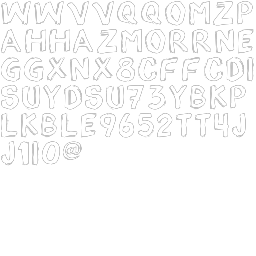
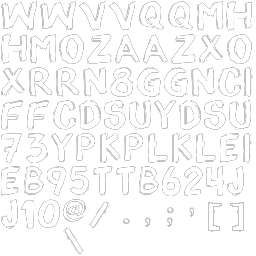
Deceptive keyboard layout switching

diff --git a/dgreed/apps/keymingler/game.c b/dgreed/apps/keymingler/game.c
@@ -1,9 +1,10 @@
 #include "game.h"
 #include "common.h"
+#include "sounds.h"
+#include "layouts.h"
 #include <system.h>
 #include <utils.h>
 #include <font.h>
-#include "sounds.h"
 
 // Types
 typedef struct {
@@ -13,6 +14,7 @@ typedef struct {
 	int fire_frame;
 	bool sinking;
 	float sink_t;
+	float hint_t;
 } Barrel;	
 
 // Resources
@@ -27,21 +29,33 @@ RectF srcrect_water = {0, 3, 1024, 539};
 FontHandle font;
 
 // Tweakables
-float barrel_fall_speed = 100.0f;
-float barrel_drop_interval = 2.0f;
-float barrel_drop_variance = 1.5f;
-float barrel_fire_anim_speed = 0.04f;
-float barrel_fire_length = 0.5f;
-float barrel_sinking_length = 1.0f;
-float bottom_y_low = 700.0f;
-float bottom_y_high = 450.0f;
-float water_y_low = 600.0f;
-float water_y_high = 300.0f;
-float water_anim_speed = 0.15f;
-float laser_length = 0.1f;
+const float barrel_fall_speed = 100.0f;
+const float barrel_drop_interval = 2.0f;
+const float barrel_drop_variance = 1.5f;
+const float barrel_fire_anim_speed = 0.04f;
+const float barrel_fire_length = 0.5f;
+const float barrel_sinking_length = 1.0f;
+const float bottom_y_low = 700.0f;
+const float bottom_y_high = 450.0f;
+const float water_y_low = 600.0f;
+const float water_y_high = 300.0f;
+const float water_anim_speed = 0.15f;
+const float laser_length = 0.1f;
+const float switch_initial_interval = 15.0f;
+const float switch_interval_multiplier = 0.9f;
+const float hint_length = 0.6f;
 
 // Globals
 #define MAX_BARRELS 64
+#define KEY_COUNT 34
+
+char valid_keys[] = 
+ {'q', 'w', 'e', 'r', 't', 'y', 'u', 'i', 'o', 'p', '[', ']',
+ 'a', 's', 'd', 'f', 'g', 'h', 'j', 'k', 'l', '\'', '\\',
+ 'z', 'x', 'c', 'v', 'b', 'n', 'm', ',', '.', '/'};
+ 
+bool is_switched[KEY_COUNT] = {false}; 
+
 uint barrel_count;
 Barrel barrels[MAX_BARRELS];
 float laser_t;
@@ -52,6 +66,31 @@ uint miss_counter;
 uint sink_counter;
 float water_t;
 float water_line;
+
+float _quadratic_t(float t) {
+	return -4.0f*t*t + 4.0f*t;
+}	
+
+bool is_char_switched(char c) {
+	for(uint i = 0; i < KEY_COUNT; ++i) {
+		if(valid_keys[i] == c)
+			return is_switched[i];
+	}
+	LOG_ERROR("Unsupported key wants to be pressed!");
+	return false;
+}
+
+void _switch_keys(float t) {
+	static float last_switch = 0.0f;
+	// C doesn't do proper constant resolving, just copy value
+	static float switch_interval = /*switch_initial_interval*/ 10.0f;
+
+	if(t - last_switch > switch_interval) {
+		last_switch = t;
+		is_switched[rand_int(0, KEY_COUNT)] = true;
+		switch_interval *= switch_interval_multiplier;
+	}
+}
 
 void _load_anim(uint n_frames, const char* path, TexHandle* out) {
 	char filename[256];
@@ -73,9 +112,16 @@ void _drop_barrel(void) {
 
 	barrels[barrel_count].pos = vec2(rand_float_range(30.0f, SCREEN_WIDTH - 30.0f),
 		-40.0f);	
-	barrels[barrel_count].letter = (char)rand_int((int)'a', (int)'z');	
+	
+	char letter = 0;
+	do {
+		letter = valid_keys[rand_int(0, sizeof(valid_keys))];
+	} while(letter == 0);
+
+	barrels[barrel_count].letter = letter;	
 	barrels[barrel_count].fire_frame = -1;
 	barrels[barrel_count].sinking = false;
+	barrels[barrel_count].hint_t = -1.0f;
 	barrel_count++;
 }
 
@@ -109,7 +155,7 @@ void _draw_water(float level, float t) {
 		water_color);
 }
 
-void _draw_barrel(Vector2 pos, char letter, int fire_frame, float sink_t) {
+void _draw_barrel(Vector2 pos, char letter, int fire_frame, float sink_t, float hint_t) {
 	char str[] = {letter, '\0'};
 
 	float barrel_hwidth = (float)rect_barrel.right - (float)rect_barrel.left;
@@ -133,7 +179,23 @@ void _draw_barrel(Vector2 pos, char letter, int fire_frame, float sink_t) {
 	}
 	else {
 		video_draw_rect(tex_barrel, 4, NULL, &barrel_pos, COLOR_WHITE);
-		font_draw(font, str, 5, &letter_pos, COLOR_BLACK);
+		if(hint_t < 0.0f) {
+			font_draw(font, str, 5, &letter_pos, COLOR_BLACK);
+		}
+		else {
+			assert(hint_t <= 1.0f);
+
+			float qt = _quadratic_t(hint_t);
+			Color transp_black = COLOR_RGBA(0, 0, 0, 0);
+			Color c1 = color_lerp(transp_black, COLOR_BLACK, qt);
+			Color c2 = color_lerp(COLOR_BLACK, transp_black, qt);
+
+			char nstr[] = {'\0', '\0'};
+			nstr[0] = layouts_map(letter);
+
+			font_draw(font, str, 5, &letter_pos, c2);
+			font_draw(font, nstr, 5, &letter_pos, c1);
+		}
 	}
 
 	if(fire_frame != -1) {
@@ -159,8 +221,8 @@ void _remove_barrel(uint idx) {
 void _update_barrels(float t, float dt) {
 	// Count how many chars were pressed
 	uint char_count = 0;
-	for(char c = 'a'; c <= 'z'; ++c) {
-		if(char_down(c))
+	for(uint i = 0; i < KEY_COUNT; ++i) {
+		if(char_down(valid_keys[i]))
 			char_count++;
 	}
 
@@ -182,9 +244,25 @@ void _update_barrels(float t, float dt) {
 			continue;
 		}
 
+		// Check for correct keypresses when layout is mixed
+		if(!barrels[i].sinking && barrels[i].fire_frame == -1 &&
+			!no_more_checks && is_char_switched((size_t)barrels[i].letter) &&
+			char_down(layouts_map(barrels[i].letter))) {
+			goto shoot;
+		}	
+
 		// Check for correct keypresses	
 		if(!barrels[i].sinking && barrels[i].fire_frame == -1 && 
 			!no_more_checks && char_down(barrels[i].letter)) {
+			// Show hint if letter is switched
+			if(is_char_switched((size_t)barrels[i].letter) && 
+				layouts_map(barrels[i].letter) != barrels[i].letter) {
+				barrels[i].hint_t = t;
+				goto fall;
+			}
+
+		shoot:	
+
 			char_count--;
 			barrels[i].fire_frame = 0;
 			barrels[i].fire_start_t = t;
@@ -198,8 +276,13 @@ void _update_barrels(float t, float dt) {
 			
 			sound_play(sound_burning);
 		}
+	
+	fall:
 
 		barrels[i].pos.y += dt *  barrel_fall_speed;
+		
+		if(barrels[i].hint_t > 0.0f && t - barrels[i].hint_t > hint_length)
+			barrels[i].hint_t = -1.0f;
 
 		if(!barrels[i].sinking && barrels[i].pos.y > water_line) {
 			if (rand_int(0, 2)) sound_play(sound_bulbul);
@@ -253,6 +336,7 @@ void game_init(void) {
 	_load_anim(WATER_FRAMES, WATER_FILE, tex_water);
 
 	font = font_load(FONT_FILE);
+	memset(is_switched, 0, sizeof(is_switched));
 
 	barrel_count = 0;
 	hit_counter = 0;
@@ -278,6 +362,7 @@ void game_update(void) {
 
 	_generate_barrels(t);
 	_update_barrels(t, dt);
+	_switch_keys(t);
 }
 
 void game_render(void) {
@@ -288,7 +373,8 @@ void game_render(void) {
 
 	for(uint i = 0; i < barrel_count; ++i)
 		_draw_barrel(barrels[i].pos, barrels[i].letter, barrels[i].fire_frame,
-			barrels[i].sinking ? (t - barrels[i].sink_t) / barrel_sinking_length : -1.0f);
+			barrels[i].sinking ? (t - barrels[i].sink_t) / barrel_sinking_length : -1.0f,
+			barrels[i].hint_t > 0.0f ? (t - barrels[i].hint_t) / hint_length : -1.0f);
 
 	if(t - laser_t < laser_length) {
 		Vector2 pos1 = vec2(laser_pos.x > 512.0f ? 1024.0f : 0.0f,

diff --git a/dgreed/apps/keymingler/layouts.c b/dgreed/apps/keymingler/layouts.c
@@ -7,6 +7,21 @@ char current_layout[CHAR_COUNT];
 uint layouts_count = 0;
 MMLObject layouts;
 
+char interesting_nonletters[] = 
+	{',', '.', '/', ';', '\'', '\\', '[', ']', ']'}; 
+
+bool _is_char_interesting(char c) {
+	if('a' <= c && 'z' >= c)
+		return true;
+
+	for(uint i = 0; i < sizeof(interesting_nonletters); ++i) {
+		if(c == interesting_nonletters[i])
+			return true;
+	}
+	return false;
+
+}
+
 void layouts_init(void) {
 	char* layouts_text = txtfile_read(LAYOUTS_FILE);
 	if(!layouts_text)
@@ -51,13 +66,10 @@ void layouts_set(const char* name) {
 			char first = *mml_get_name(&layouts, pair);
 			char second = *mml_getval_str(&layouts, pair);
 
-			//assert(first >= 'a' && first <= 'z');
-			//assert(second >= 'a' && second <= 'z');
-			if(first < 'a' || first > 'z' || second < 'a' || second > 'z')
+			if(!_is_char_interesting(first) || !_is_char_interesting(second))
 				pair = mml_get_next(&layouts, pair);
 
-			current_layout[first - 'a'] = second;
-
+			current_layout[(size_t)first] = second;
 			pair = mml_get_next(&layouts, pair);
 		}
 		return;
@@ -67,6 +79,6 @@ void layouts_set(const char* name) {
 }
 
 char layouts_map(char keyb_char) {
-	return current_layout[keyb_char - 'a'];
+	return current_layout[(size_t)keyb_char];
 }
 

diff --git a/dgreed/src/system_sdl.c b/dgreed/src/system_sdl.c
@@ -808,7 +808,6 @@ bool key_pressed(Key key) {
 }	
 
 bool char_pressed(char c) {
-	assert(c >= 'a' && c <= 'z');
 	return keystate[(size_t)c];
 }
 
@@ -818,7 +817,6 @@ bool key_down(Key key) {
 }	
 
 bool char_down(char c) {
-	assert(c >= 'a' && c <= 'z');
 	return keystate[(size_t)c] && !old_keystate[(size_t)c];
 }
 
@@ -828,7 +826,6 @@ bool key_up(Key key) {
 }
 
 bool char_up(char c) {
-	assert(c >= 'a' && c <= 'z');
 	return !keystate[(size_t)c] && old_keystate[(size_t)c];
 }
 

diff --git a/dgreed/apps/keymingler/keymingler.c b/dgreed/apps/keymingler/keymingler.c
@@ -12,6 +12,8 @@ int main(int argc, const char** argv) {
 	log_init("keymingler.log", LOG_LEVEL_INFO);
 	rand_init(52890);
 	layouts_init();
+	layouts_set("dvorak");
+
 	video_init(SCREEN_WIDTH, SCREEN_HEIGHT);
 	game_init();
 	sounds_init();

diff --git a/dgreed/apps/keymingler/common.h b/dgreed/apps/keymingler/common.h
@@ -6,7 +6,7 @@
 #define SCREEN_WIDTH 1024 
 #define SCREEN_HEIGHT 768 
 
-#define CHAR_COUNT ('z' - 'a' + 1)
+#define CHAR_COUNT 128
 
 #define ASSETS_DIR "keymingler_assets/"
 #define LAYOUTS_FILE ASSETS_DIR "layouts.mml"
